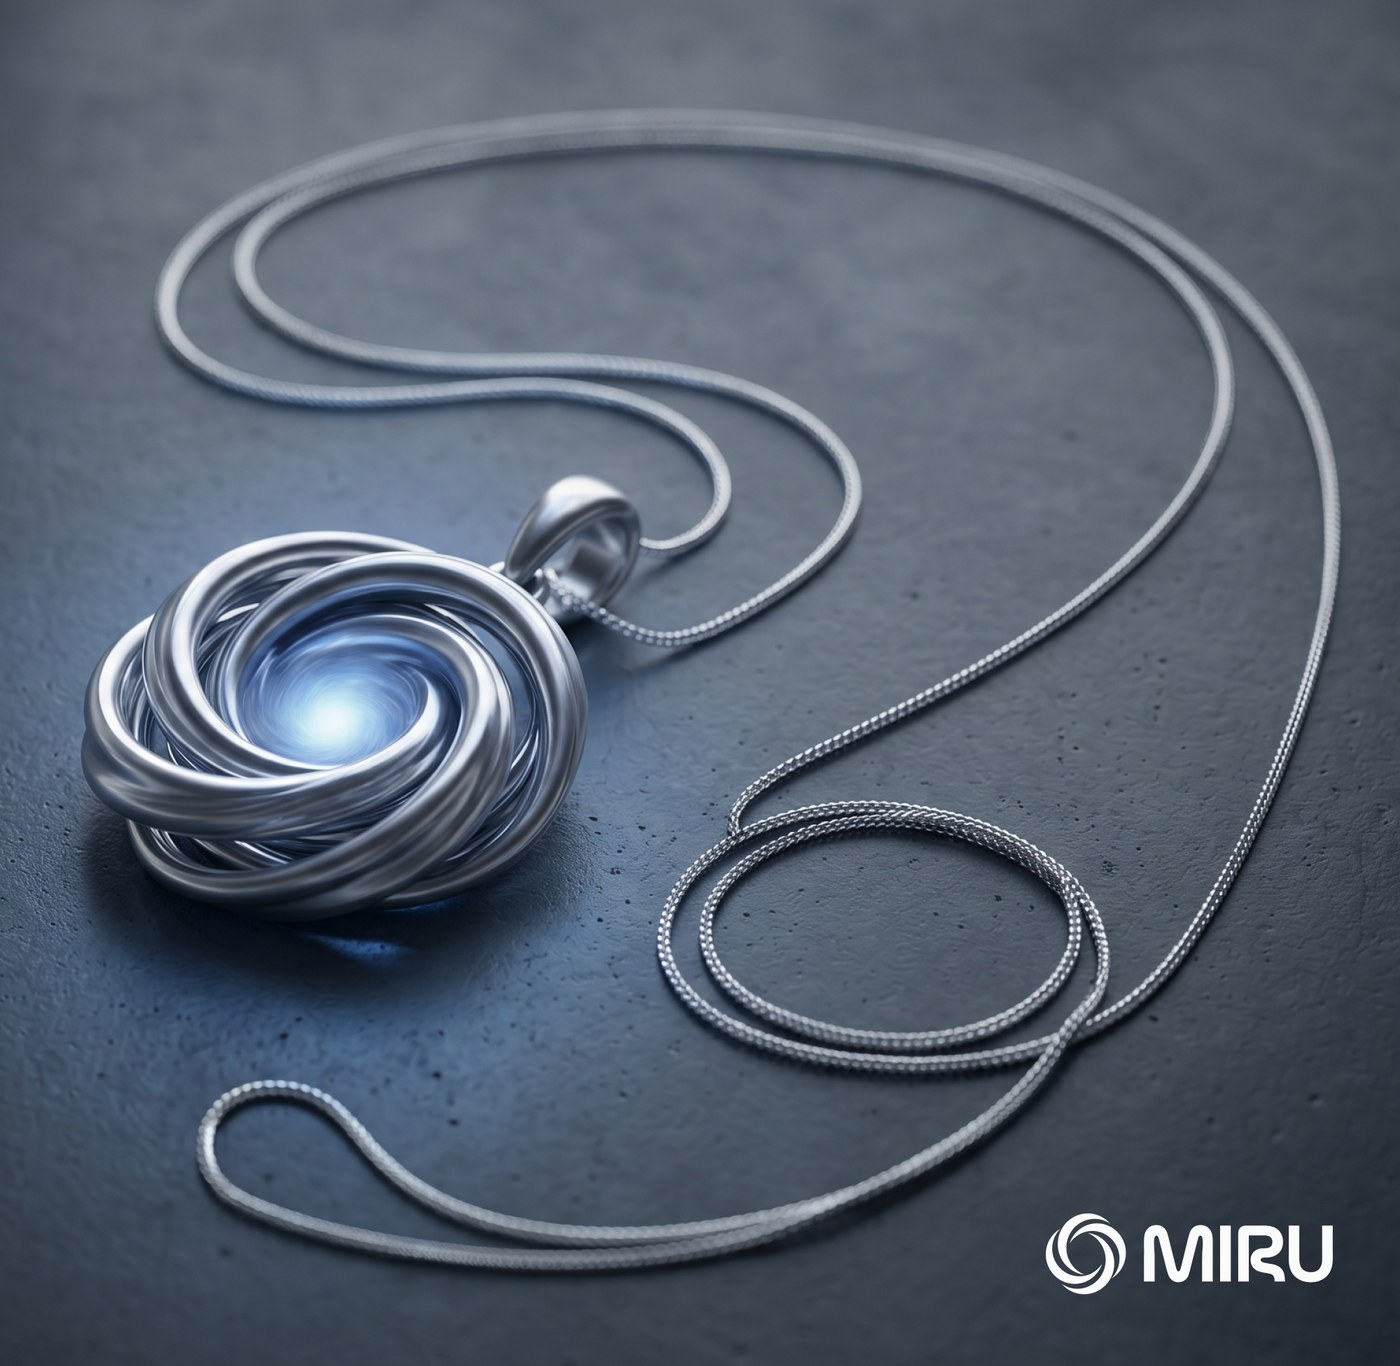
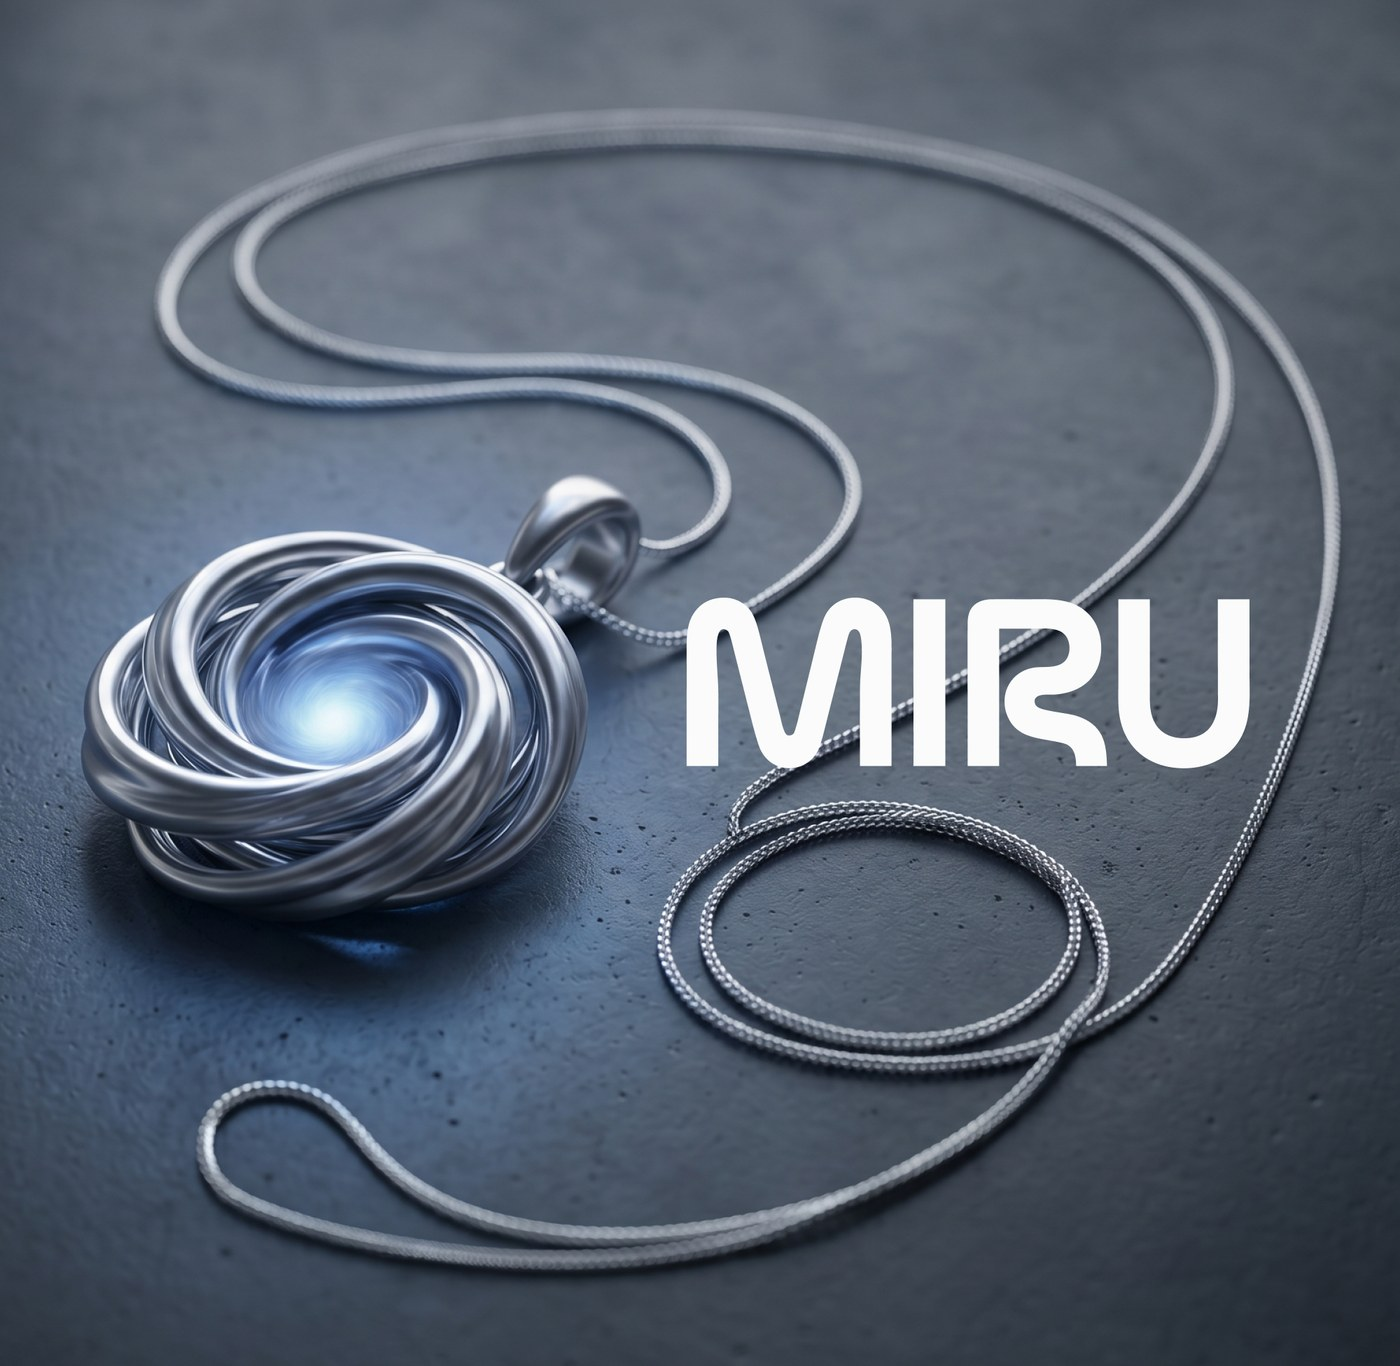
Miru: обновлена обложка плитки из Figma (node 3492-30925, v3)

Changed region(s): [[0.4914, 0.4305, 0.8907, 0.5842], [0.7371, 0.8917, 0.9521, 0.9531]]

diff --git a/index.html b/index.html
@@ -73,7 +73,7 @@
         <li class="tile reveal" data-cat="graph">
           <a class="tile__link" href="case.html?id=miru" aria-label="Кейс: Miru">
             <div class="tile__media tile__media--image" data-tone="1">
-              <img src="assets/miru-card.jpg?v=2" alt="Miru – обложка" loading="lazy" />
+              <img src="assets/miru-card.jpg?v=3" alt="Miru – обложка" loading="lazy" />
             </div>
             <div class="tile__cap">
               <h3 class="tile__title">Miru</h3>

diff --git a/projects.js b/projects.js
@@ -177,7 +177,7 @@ window.PROJECTS = {
   miru: {
     title: "Miru",
     subtitle: "Эмпатия как украшение",
-    card: "assets/miru-card.jpg?v=2",
+    card: "assets/miru-card.jpg?v=3",
     cardMeta: "Эмпатия как украшение",
     tone: 1,
     hideHero: true,

diff --git a/case.html b/case.html
@@ -46,7 +46,7 @@
   </button>
 
   <script src="https://cdn.jsdelivr.net/npm/lenis@1.1.14/dist/lenis.min.js"></script>
-  <script src="projects.js?v=123"></script>
+  <script src="projects.js?v=124"></script>
   <script src="case.js?v=62"></script>
   <script src="script.js?v=23"></script>
 </body>
